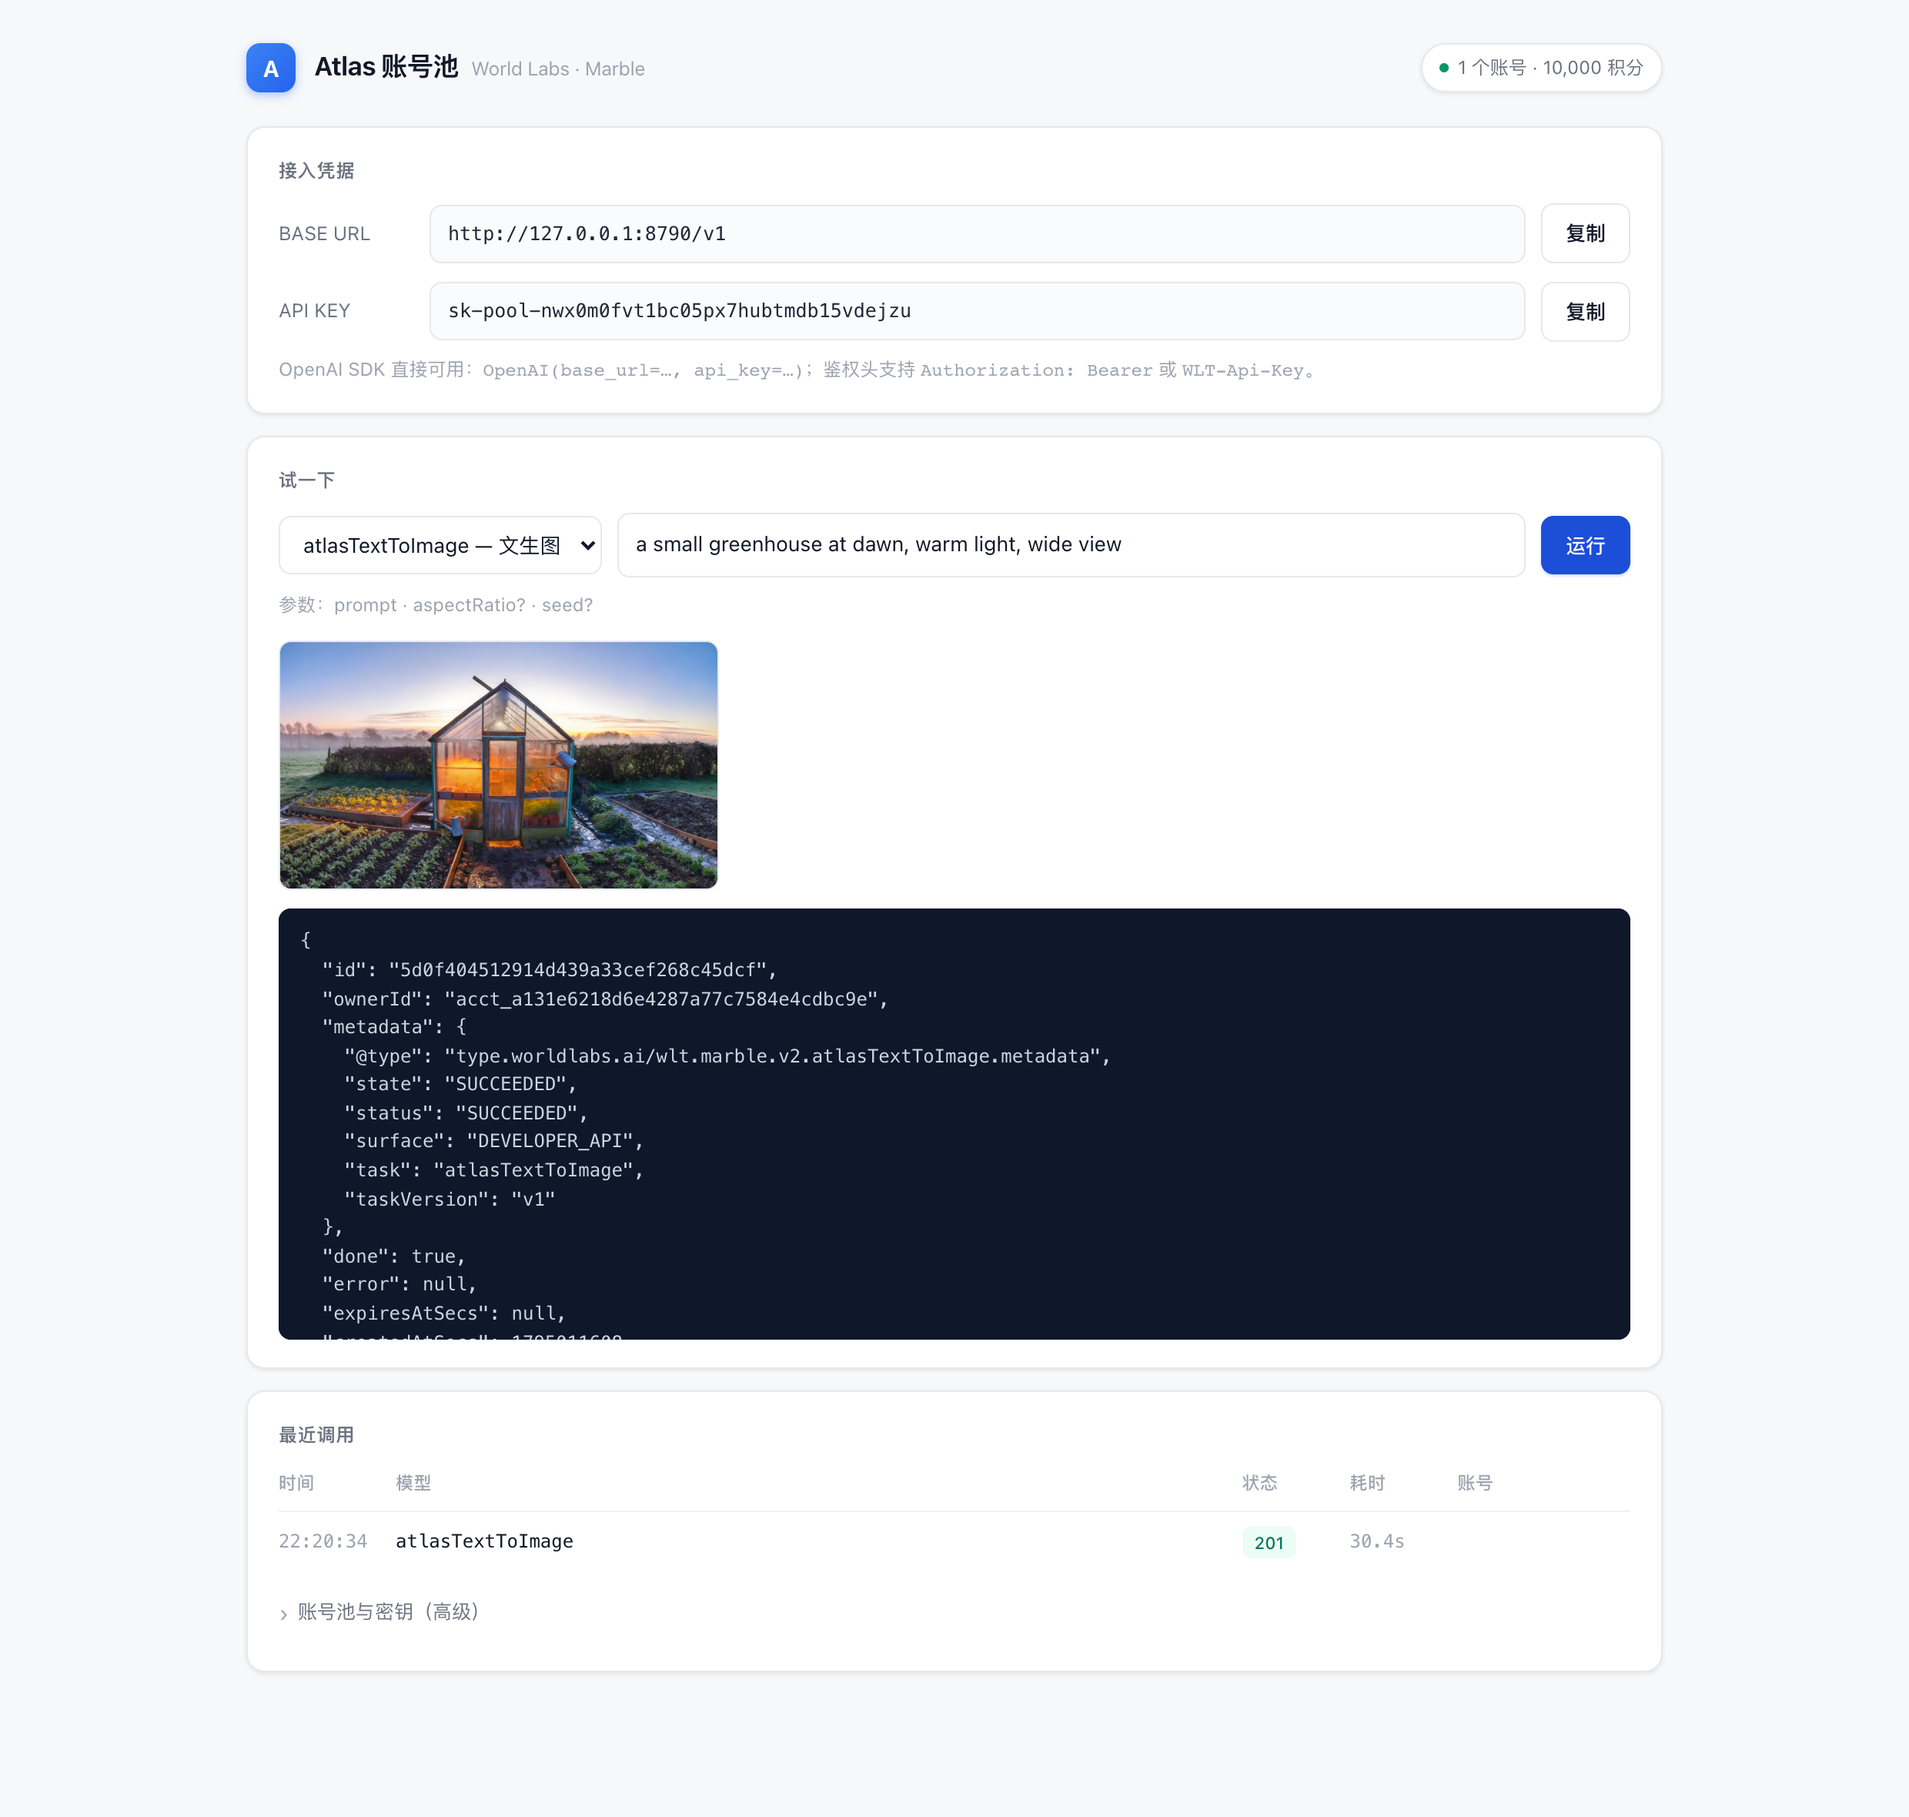
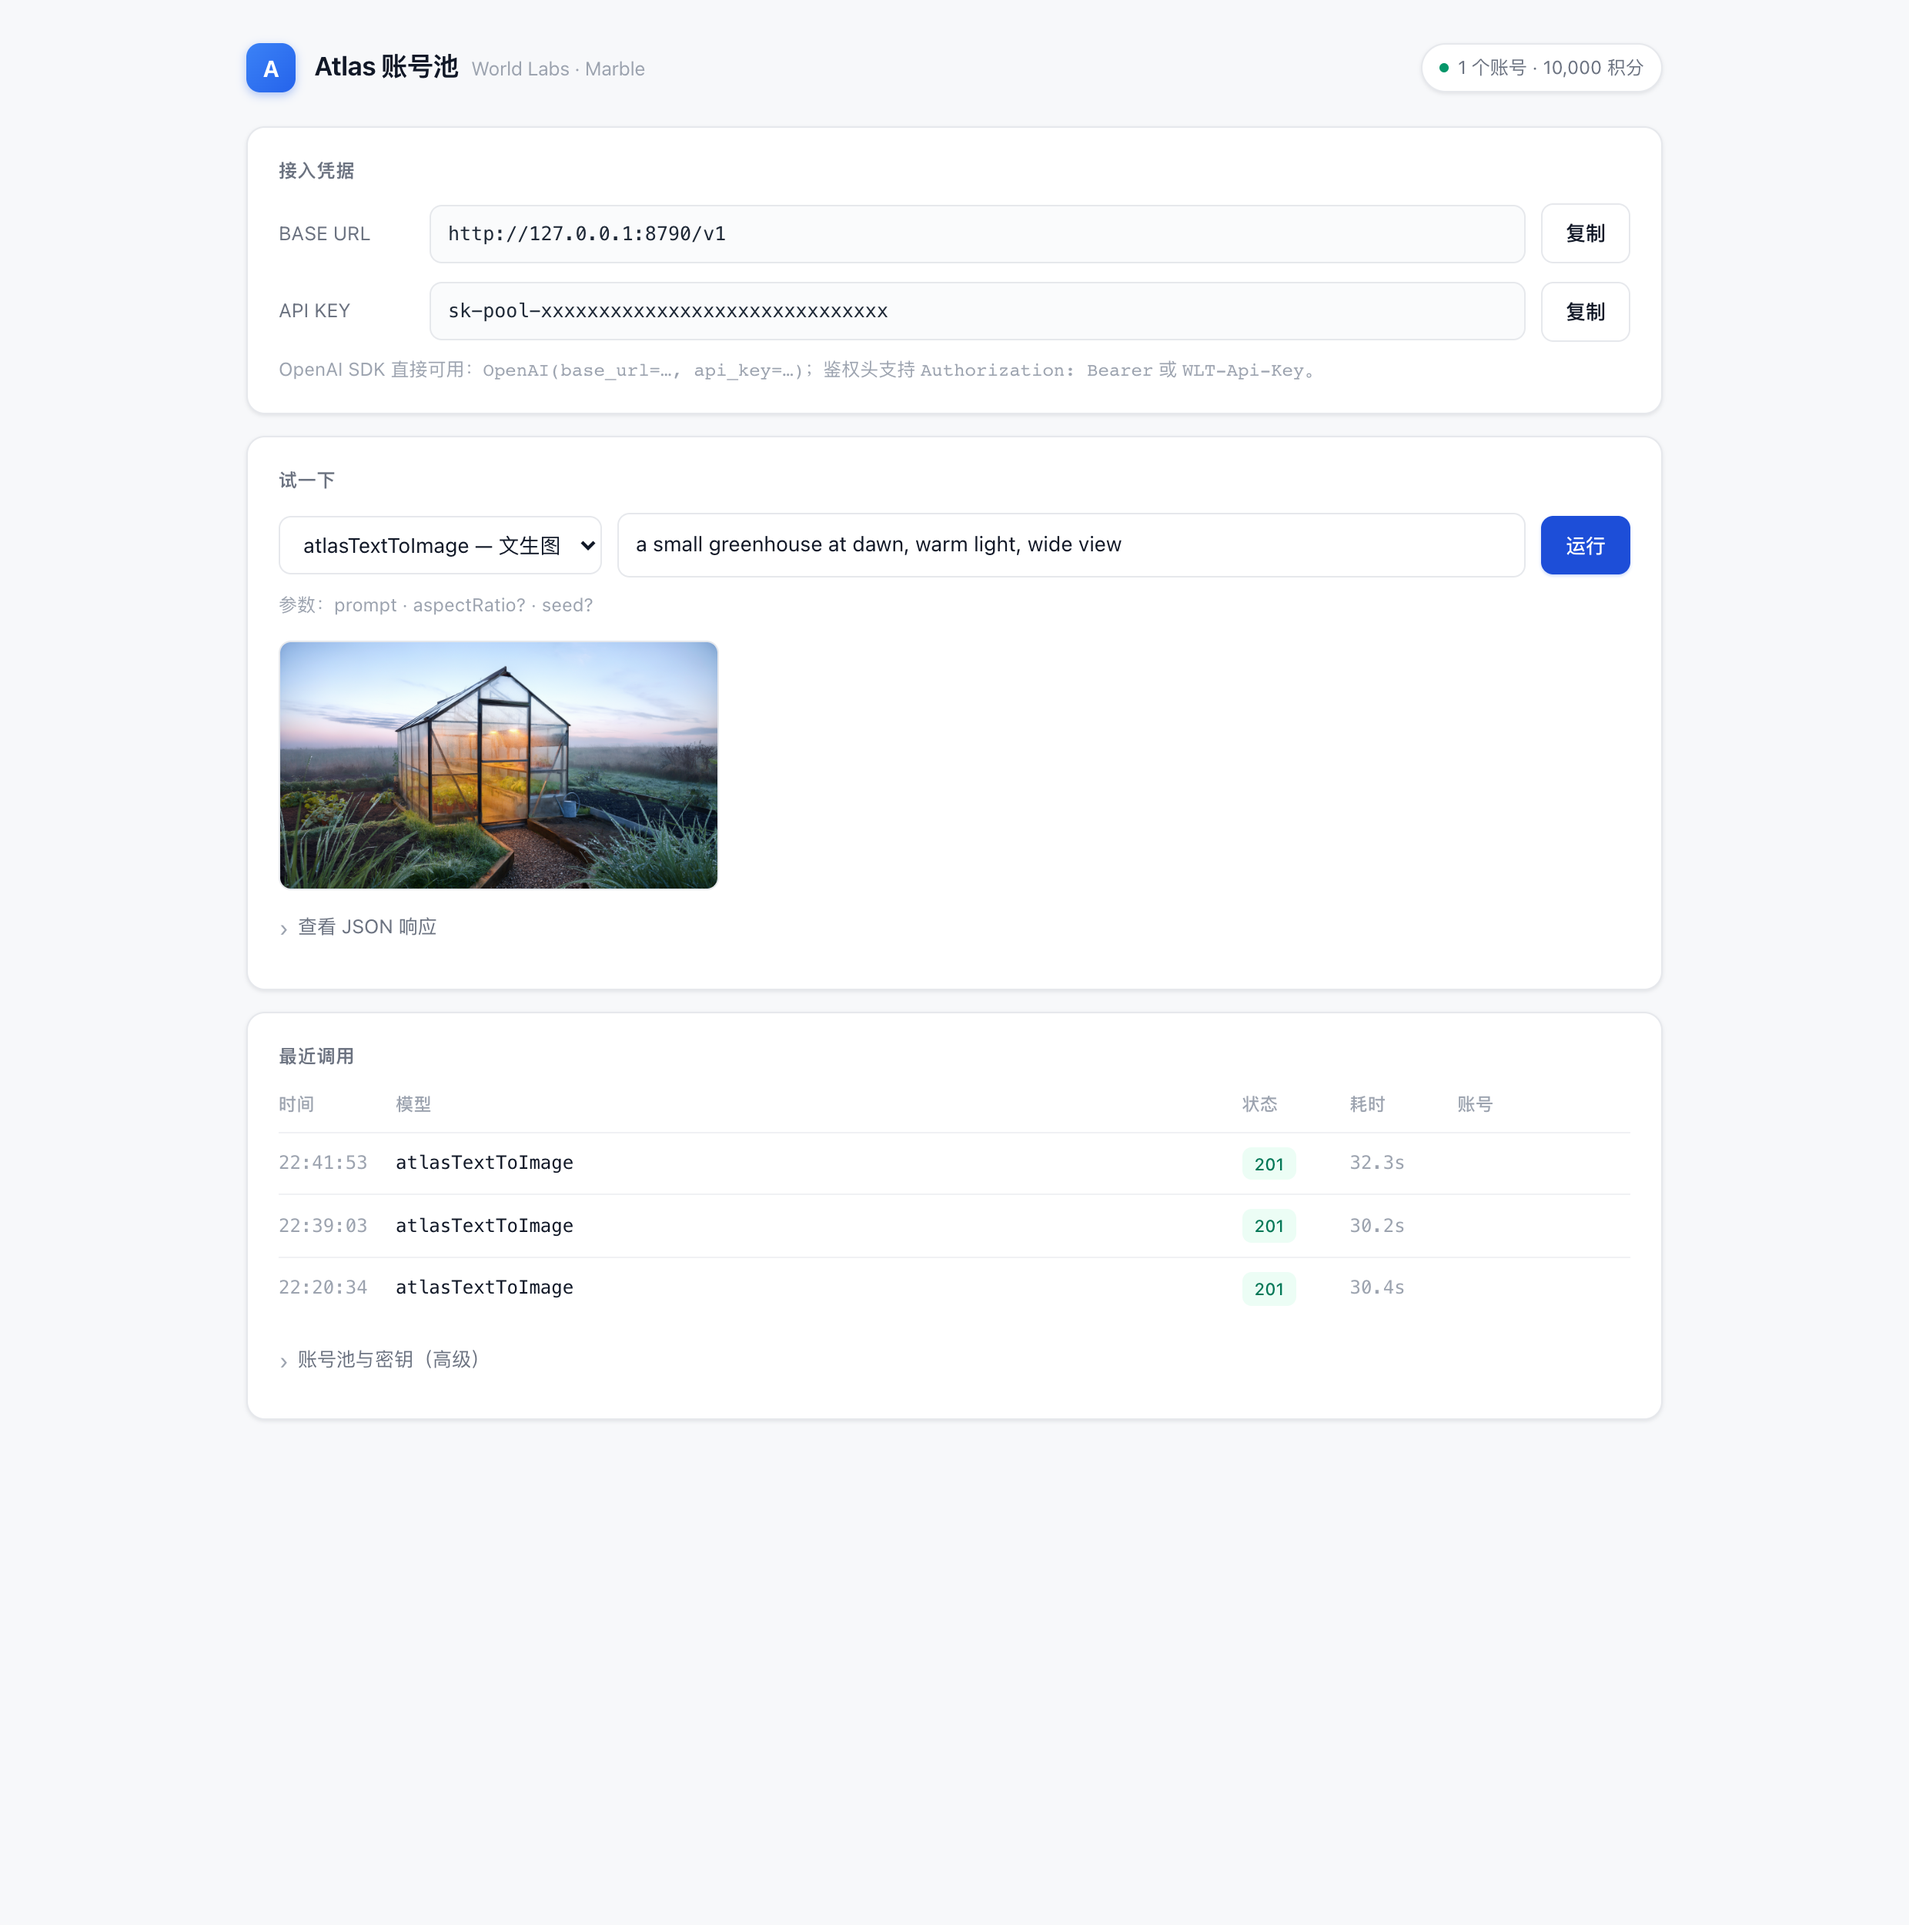
feat: 图片代理 + 界面打磨
- 新增 /admin/image 图片代理，解决 GCS 签名直链在浏览器被拦
- JSON 响应默认折叠，面板更清爽
- 配置接口补齐 ms_email / owa_profile
- 实跑校验支持 msowa（hotmail）邮箱来源
- 更新截图（敏感信息打码）

diff --git a/web/gateway.html b/web/gateway.html
@@ -116,7 +116,7 @@ details[open] summary:before{transform:rotate(90deg)}
     <div class="hint" id="modelHint"></div>
     <div class="result" id="result">
       <div class="imgs" id="imgs"></div>
-      <pre id="raw"></pre>
+      <details><summary style="padding:0 0 10px">查看 JSON 响应</summary><pre id="raw"></pre></details>
     </div>
   </div>
 
@@ -226,7 +226,7 @@ async function runTask(){
     const frames = (d.response && d.response.frames) || [];
     $('imgs').innerHTML = frames.map(f=>{
       const u = f.imageAsset && f.imageAsset.url;
-      return u ? `<img src="${u}" alt="result"/>` : '';
+      return u ? `<img src="/admin/image?url=${encodeURIComponent(u)}" alt="result" loading="lazy"/>` : '';
     }).join('');
     $('raw').textContent = JSON.stringify(d, null, 2).slice(0, 4000);
   }catch(e){

diff --git a/webapp.py b/webapp.py
@@ -328,7 +328,9 @@ async def api_config() -> JSONResponse:
         "mail": {"provider": cfg.mail.provider, "domain": cfg.mail.domain,
                  "imap_host": cfg.mail.imap_host, "imap_user": cfg.mail.imap_user,
                  "imap_pass": cfg.mail.imap_pass, "http_url": cfg.mail.http_url,
-                 "http_token": cfg.mail.http_token},
+                 "http_token": cfg.mail.http_token,
+                 "ms_email": cfg.mail.ms_email, "owa_profile": cfg.mail.owa_profile,
+                 "ms_accounts_file": cfg.mail.ms_accounts_file},
         "sms": {"provider": cfg.sms.provider, "api_key": cfg.sms.api_key,
                 "country": cfg.sms.country, "service": cfg.sms.service},
         "run": {"concurrency": cfg.run.concurrency, "per_ip_delay": cfg.run.per_ip_delay,
@@ -371,6 +373,8 @@ async def api_start(req: Request) -> JSONResponse:
             miss.append("MAIL_DOMAIN + IMAP_*")
         if cfg.mail.provider == "http" and not (cfg.mail.domain and cfg.mail.http_url):
             miss.append("MAIL_DOMAIN + MAIL_HTTP_URL")
+        if cfg.mail.provider == "msowa" and not cfg.mail.ms_email:
+            miss.append("hotmail 地址（邮箱来源选 msowa 时必填）")
         if cfg.sms.provider != "manual" and not cfg.sms.api_key:
             miss.append("SMS_KEY（接码平台）")
         if miss:

diff --git a/gateway.py b/gateway.py
@@ -401,6 +401,20 @@ async def admin_test(model: str, request: Request):
         return {"ok": False, "status": r.status_code, "raw": r.text[:400]}
 
 
+@app.get("/admin/image")
+async def admin_image(url: str):
+    """图片代理：GCS 签名直链在浏览器里常被拦，这里由服务端取回转给前端。"""
+    from fastapi.responses import Response
+    if not url.startswith("https://storage.googleapis.com/"):
+        return _err(400, "仅允许 storage.googleapis.com")
+    async with httpx.AsyncClient(proxy=_proxy(), timeout=120) as c:
+        r = await c.get(url)
+    if r.status_code != 200:
+        return _err(r.status_code, "拉取图片失败")
+    return Response(r.content, media_type=r.headers.get("content-type", "image/jpeg"),
+                    headers={"cache-control": "public, max-age=300"})
+
+
 @app.get("/", response_class=HTMLResponse)
 async def index():
     return (ROOT / "web" / "gateway.html").read_text(encoding="utf-8")
